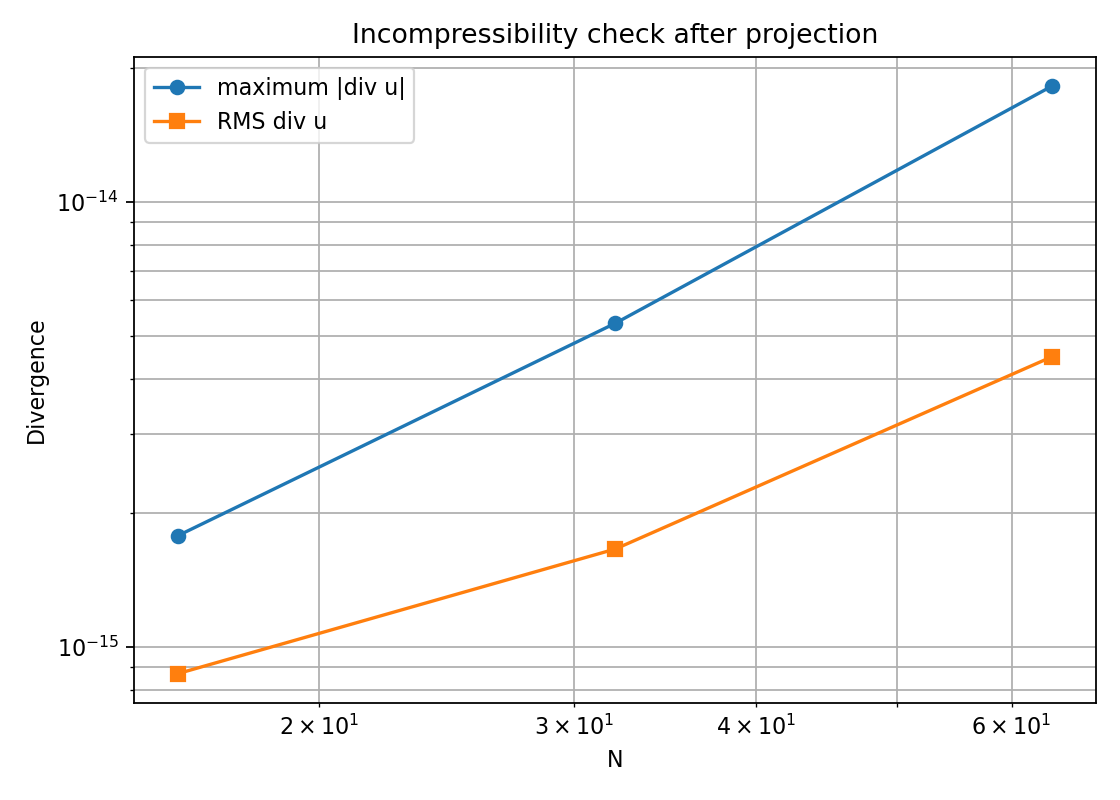
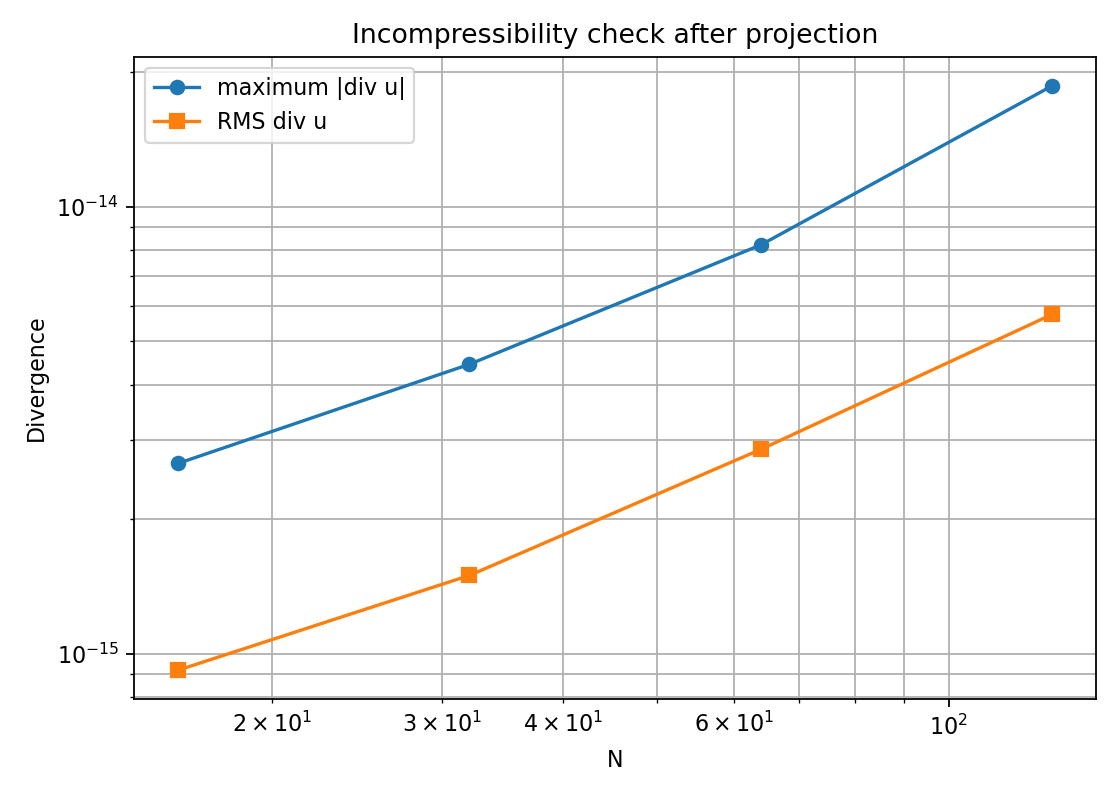
actualitzacio
dt es calcula al cpp, estructura al executar al readme

Changed region(s): [[0.0625, 0.0625, 0.9688, 0.9375], [0.0, 0.4062, 0.0625, 0.5625], [0.0625, 0.7812, 0.125, 0.8438]]

diff --git a/convergence_time_check.py b/convergence_time_check.py
@@ -1,13 +1,14 @@
 #!/usr/bin/env python3
 """Validate the time-dependent Taylor-Green vortex against its exact solution.
 
-Runs the C++ solver for several N values at the same final time, reads u_final.csv
-and v_final.csv, compares them at their staggered locations, and saves field
-comparisons, divergence checks, and a mesh-convergence plot.
+Runs the C++ solver for several N values, reads u_final.csv and v_final.csv,
+compares them at their staggered locations, and saves field comparisons,
+divergence checks, and a mesh-convergence plot.
 
-Expected executable interface for NS_modified.cpp: NS N tFinal nu dt
+Expected executable interface for NS_modified.cpp: NS N tFinal nu
 """
 import argparse
+import re
 import subprocess
 import sys
 from pathlib import Path
@@ -36,26 +37,38 @@ def exact_fields(n, time, nu, rho=RHO_DEFAULT):
     return u, v, p
 
 
-def run_case(exe, n, nsteps, dt, nu, rho, workdir):
+def run_case(exe, n, t_final, nu, rho, workdir):
     case_dir = workdir / f"N{n}"
     case_dir.mkdir(parents=True, exist_ok=True)
 
-    # NS_modified.cpp expects: N, tFinal, nu, dt.
-    # The older script interface (N, nSteps, dt, nu, rho) was incompatible.
-    t_final = nsteps * dt
+    # NS_modified.cpp expects: N, tFinal, nu.
     cmd = [
         str(exe.resolve()),
         str(n),
         f"{t_final:.17g}",
         f"{nu:.17g}",
-        f"{dt:.17g}",
     ]
     result = subprocess.run(cmd, cwd=case_dir, capture_output=True, text=True)
+
     if result.returncode:
         raise RuntimeError(
-            f"Solver failed for N={n}.\\nCommand: {' '.join(cmd)}\\n"
-            f"stdout:\\n{result.stdout}\\nstderr:\\n{result.stderr}"
+            f"Solver failed for N={n}.\nCommand: {' '.join(cmd)}\n"
+            f"stdout:\n{result.stdout}\nstderr:\n{result.stderr}"
         )
+
+    # Extract the actual final simulation time from the C++ output.
+    times = re.findall(
+        r"Completed step\s+\d+,\s*dt\s*=\s*[\deE.+-]+,\s*t\s*=\s*([\deE.+-]+)",
+        result.stdout
+    )
+
+    if not times:
+        raise RuntimeError(
+            f"Could not extract final simulation time for N={n}.\n"
+            f"Solver output:\n{result.stdout}"
+        )
+
+    actual_time = float(times[-1])
 
     fields = {}
     for name in ("u_final.csv", "v_final.csv", "pressure_final.csv"):
@@ -66,7 +79,8 @@ def run_case(exe, n, nsteps, dt, nu, rho, workdir):
         if arr.shape != (n, n):
             raise ValueError(f"{path}: expected {(n, n)}, got {arr.shape}")
         fields[name] = arr
-    return case_dir, fields, result.stdout
+
+    return case_dir, fields, result.stdout, actual_time
 
 
 def divergence(u, v, h):
@@ -80,28 +94,23 @@ def main():
     ap.add_argument("--sizes", type=int, nargs="+", default=[16, 32, 64],
                     help="mesh sizes N (square N x N grids)")
     ap.add_argument("--time", type=float, default=0.01, help="target final time")
-    ap.add_argument("--dt", type=float, default=1.0e-4, help="fixed time step")
     ap.add_argument("--nu", type=float, default=NU_DEFAULT, help="kinematic viscosity")
     ap.add_argument("--rho", type=float, default=RHO_DEFAULT, help="density")
     ap.add_argument("--workdir", default="validation_runs", help="output directory")
     ap.add_argument("--out", default="validation_results", help="plots/output folder")
     args = ap.parse_args()
 
-    if args.time < 0 or args.dt <= 0 or args.nu < 0 or args.rho <= 0:
-        ap.error("Require time>=0, dt>0, nu>=0 and rho>0")
+    if args.time < 0 or args.nu < 0 or args.rho <= 0:
+        ap.error("Require time>=0, nu>=0 and rho>0")
+
     sizes = sorted(set(args.sizes))
     if any(n < 2 for n in sizes):
         ap.error("All N values must be >= 2")
-    nsteps = int(round(args.time / args.dt))
-    if nsteps < 0:
-        ap.error("Invalid number of time steps")
-    actual_time = nsteps * args.dt
-    if not np.isclose(actual_time, args.time, rtol=0.0, atol=1e-10 * max(1.0, args.time)):
-        print(f"Note: target time {args.time:g} adjusted to {actual_time:g} = nSteps*dt")
 
     exe = Path(args.exe).expanduser().resolve()
     if not exe.exists():
         ap.error(f"Executable not found: {exe}. Compile the C++ solver first.")
+
     workdir = Path(args.workdir).expanduser().resolve()
     outdir = Path(args.out).expanduser().resolve()
     outdir.mkdir(parents=True, exist_ok=True)
@@ -109,64 +118,98 @@ def main():
     errors = []
     div_results = []
     results = []
+    actual_times = []
+
     for n in sizes:
-        print(f"Running N={n}, steps={nsteps}, t={actual_time:g} ...", flush=True)
-        case_dir, fields, _ = run_case(exe, n, nsteps, args.dt, args.nu, args.rho, workdir)
+        print(f"Running N={n}, target t={args.time:g} ...", flush=True)
+
+        case_dir, fields, _, actual_time = run_case(
+            exe, n, args.time, args.nu, args.rho, workdir
+        )
+        actual_times.append(actual_time)
+
+        print(f"  Actual final time: {actual_time:.12g}")
+
         un = fields["u_final.csv"]
         vn = fields["v_final.csv"]
         pn = fields["pressure_final.csv"]
+
         ue, ve, pe = exact_fields(n, actual_time, args.nu, args.rho)
+
         eu = float(np.max(np.abs(un - ue)))
         ev = float(np.max(np.abs(vn - ve)))
+
         div = divergence(un, vn, L / n)
         divmax = float(np.max(np.abs(div)))
         divrms = float(np.sqrt(np.mean(div**2)))
+
         # Pressure is only defined up to a constant for periodic flow.
         dpn = pn - pn[0, 0]
         dpe = pe - pe[0, 0]
         ep = float(np.max(np.abs(dpn - dpe)))
+
         errors.append((eu, ev, ep))
         div_results.append((divmax, divrms))
         results.append((n, case_dir, un, vn, ue, ve))
+
         print(f"  max|u-uexact|={eu:.4e}; max|v-vexact|={ev:.4e}; "
-              f"max|p-pref - exact|={ep:.4e}; maxDiv={divmax:.4e}; RMSDiv={divrms:.4e}")
+              f"max|p-pref - exact|={ep:.4e}; maxDiv={divmax:.4e}; "
+              f"RMSDiv={divrms:.4e}")
 
         # For each mesh: exact and numerical velocity fields, plus absolute error.
         fig, axes = plt.subplots(2, 3, figsize=(13, 7), constrained_layout=True)
+
         panels = [
-            (axes[0, 0], ue, "Exact u"), (axes[0, 1], un, "Numerical u"),
+            (axes[0, 0], ue, "Exact u"),
+            (axes[0, 1], un, "Numerical u"),
             (axes[0, 2], np.abs(un - ue), "|u error|"),
-            (axes[1, 0], ve, "Exact v"), (axes[1, 1], vn, "Numerical v"),
+            (axes[1, 0], ve, "Exact v"),
+            (axes[1, 1], vn, "Numerical v"),
             (axes[1, 2], np.abs(vn - ve), "|v error|"),
         ]
+
         for ax, field, title in panels:
-            im = ax.imshow(field, origin="lower", extent=(0, L, 0, L),
-                           aspect="equal", interpolation="nearest")
+            im = ax.imshow(
+                field, origin="lower", extent=(0, L, 0, L),
+                aspect="equal", interpolation="nearest"
+            )
             ax.set_title(title)
             ax.set_xlabel("x")
             ax.set_ylabel("y")
             fig.colorbar(im, ax=ax, shrink=0.82)
-        fig.suptitle(f"Taylor–Green vortex, N={n}, t={actual_time:g}, nu={args.nu:g}")
+
+        fig.suptitle(
+            f"Taylor–Green vortex, N={n}, t={actual_time:g}, nu={args.nu:g}"
+        )
         fig.savefig(outdir / f"fields_N{n}.png", dpi=160)
         plt.close(fig)
 
     err = np.asarray(errors)
     divs = np.asarray(div_results)
-    print("\n N       h          max error u    max error v    max error p*    max div       RMS div")
+
+    print("\n N       h          max error u    max error v    max error p*    "
+          "max div       RMS div")
     for k, n in enumerate(sizes):
-        print(f"{n:3d}  {L/n:9.3e}  {err[k,0]:12.4e}  {err[k,1]:12.4e}  "
-              f"{err[k,2]:12.4e}  {divs[k,0]:12.4e}  {divs[k,1]:12.4e}")
+        print(f"{n:3d}  {L/n:9.3e}  {err[k,0]:12.4e}  "
+              f"{err[k,1]:12.4e}  {err[k,2]:12.4e}  "
+              f"{divs[k,0]:12.4e}  {divs[k,1]:12.4e}")
 
     hvals = np.array([L / n for n in sizes])
+
     fig, ax = plt.subplots(figsize=(7, 5))
-    for col, label, marker in [(0, "u max error", "o"), (1, "v max error", "s")]:
+    for col, label, marker in [
+        (0, "u max error", "o"),
+        (1, "v max error", "s")
+    ]:
         ax.loglog(hvals, err[:, col], marker + "-", label=label)
+
     if len(sizes) > 1:
         ref = err[0, 0] * (hvals / hvals[0])**2
         ax.loglog(hvals, ref, "--", label=r"$O(h^2)$ reference")
+
     ax.set_xlabel("h = L/N")
     ax.set_ylabel("Maximum absolute error")
-    ax.set_title(f"Velocity mesh convergence at t={actual_time:g}")
+    ax.set_title(f"Velocity mesh convergence at t={args.time:g}")
     ax.grid(True, which="both")
     ax.legend()
     fig.tight_layout()
@@ -186,13 +229,21 @@ def main():
     plt.close(fig)
 
     summary = outdir / "validation_summary.csv"
-    np.savetxt(summary, np.column_stack((sizes, hvals, err, divs)), delimiter=",")
+    np.savetxt(
+        summary,
+        np.column_stack((sizes, hvals, err, divs)),
+        delimiter=","
+    )
+
     print(f"\nPlots and summary saved in: {outdir}")
-    print("Files: fields_N*.png, mesh_convergence.png, divergence_check.png, validation_summary.csv")
+    print(
+        "Files: fields_N*.png, mesh_convergence.png, "
+        "divergence_check.png, validation_summary.csv"
+    )
 
 
 if __name__ == "__main__":
     try:
         main()
     except (RuntimeError, FileNotFoundError, ValueError) as exc:
-        sys.exit(str(exc))
+        sys

diff --git a/Solver.cpp b/Solver.cpp
@@ -5,18 +5,20 @@
 #include <cmath>
 #include <stdexcept>
 #include <algorithm>
+#include <chrono>
 
 Solver::Solver(int Nx, int Ny, double Lx, double Ly,
-               double nu, double rho, double dt)
+               double nu, double rho)
     : m_Nx(Nx), m_Ny(Ny), m_Lx(Lx), m_Ly(Ly),
-      m_dx(Lx / Nx), m_dy(Ly / Ny), m_nu(nu), m_rho(rho), m_dt(dt),
+      m_dx(Lx / Nx), m_dy(Ly / Ny), m_nu(nu), m_rho(rho),
+      m_dtd(0.5*((Lx/Nx)*(Lx/Nx))/nu),m_dtc(m_dtd),m_dt(m_dtc),
       m_RuPrevious(static_cast<std::size_t>(Nx) * Ny, 0.0),
       m_RvPrevious(static_cast<std::size_t>(Nx) * Ny, 0.0),
       m_up(static_cast<std::size_t>(Nx) * Ny, 0.0),
       m_vp(static_cast<std::size_t>(Nx) * Ny, 0.0),
       m_pseudoPressure(static_cast<std::size_t>(Nx) * Ny, 0.0)
 {
-    if (Nx < 2 || Ny < 2 || Lx <= 0.0 || Ly <= 0.0 || rho <= 0.0 || dt <= 0.0)
+    if (Nx < 2 || Ny < 2 || Lx <= 0.0 || Ly <= 0.0 || rho <= 0.0)
         throw std::invalid_argument("Invalid Solver dimensions or physical parameters");
 
     const std::size_t n = static_cast<std::size_t>(Nx) * Ny;
@@ -101,6 +103,7 @@ void Solver::step(Umesh& u, Vmesh& v, Pmesh& p)
     const double cellVolume = m_dx * m_dy;
     std::vector<double> Ru(m_RuPrevious.size());
     std::vector<double> Rv(m_RvPrevious.size());
+    double u_max = u.max_val(), v_max = v.max_val();
 
     // LOOP 1: convective/diffusive terms and AB2 predictor.
     // FVM functions are unchanged from the Part A verification.
@@ -111,6 +114,11 @@ void Solver::step(Umesh& u, Vmesh& v, Pmesh& p)
             const double difU  = FVM::computeDiffusiveU(i, j, u, m_nu);
             const double convV = FVM::computeConvectiveV(i, j, u, v);
             const double difV  = FVM::computeDiffusiveV(i, j, u, v, m_nu);
+
+            //dt determination
+
+            u_max > v_max ? m_dtc = (m_Lx/m_Nx)/u_max : m_dtc = (m_Lx/m_Nx)/v_max;
+            m_dtc > m_dtd ? m_dt = 0.1 * m_dtd : m_dt = 0.1 * m_dtc;
 
             // Momentum equation: du/dt = -C/V + D/V - (1/rho) grad(p).
             Ru[k] = (-convU + difU) / cellVolume;
@@ -141,6 +149,10 @@ void Solver::step(Umesh& u, Vmesh& v, Pmesh& p)
             u(i, j) = m_up[k] - (m_pseudoPressure[index(ip, j)] - m_pseudoPressure[k]) / m_dx;
             v(i, j) = m_vp[k] - (m_pseudoPressure[index(i, jp)] - m_pseudoPressure[k]) / m_dy;
             p(i, j) = (m_rho / m_dt) * m_pseudoPressure[k];
+
+            //update u_max v_max
+            u(i,j) > u_max ? u_max = u(i,j) : u_max = u_max;
+            v(i,j) > v_max ? v_max = v(i,j) : v_max = v_max;
         }
     }
 

diff --git a/NS.cpp b/NS.cpp
@@ -21,17 +21,10 @@ int main (int argc, char** argv)
 	// Simulation parameters: N, final time, viscosity, time step
 	const double tFinal = (argc > 2) ? std::atof(argv[2]) : 0.01;
 	const double nu = (argc > 3) ? std::atof(argv[3]) : 1.51e-5;
-	const double dt = (argc > 4) ? std::atof(argv[4]) : 1.0e-4;
 	const double rho = 1.0;
 
-	if (Nx < 1 || tFinal <= 0.0 || nu < 0.0 || dt <= 0.0) {
+	if (Nx < 1 || tFinal <= 0.0 || nu < 0.0) {
 		std::cerr << "Error: N and dt/tFinal must be positive, and nu must be non-negative.\n";
-		return 1;
-	}
-
-	const int nSteps = static_cast<int>(std::round(tFinal / dt));
-	if (nSteps < 1 || std::abs(nSteps * dt - tFinal) > 1e-12) {
-		std::cerr << "Error: tFinal must be a positive integer multiple of dt.\n";
 		return 1;
 	}
 
@@ -106,13 +99,15 @@ int main (int argc, char** argv)
 	/*******************************************************
 		PART B/C: PRESSURE-VELOCITY COUPLING AND TIME LOOP
 	*******************************************************/
-	Solver solver(Nx, Ny, Lx, Ly, nu, rho, dt);
-	for (int n = 0; n < nSteps; ++n) {
+	Solver solver(Nx, Ny, Lx, Ly, nu, rho);
+	double dt = solver.getdt();
+	for (double time = 0; time < tFinal; time += dt) {
 		solver.step(u, v, p);
-		if ((n + 1) % 10 == 0) {
-			std::cout << "Completed step " << solver.getStep()
+		std::cout << "Completed step " << solver.getStep()
+					  << ", dt = " << dt
 			          << ", t = " << solver.getTime() << "\n";
-		}
+
+		dt = solver.getdt();
 	}
 
 	// Final fields for inspection / verification.

diff --git a/Solver.h b/Solver.h
@@ -9,7 +9,7 @@
 class Solver {
 public:
     Solver(int Nx, int Ny, double Lx, double Ly,
-           double nu, double rho, double dt);
+           double nu, double rho);
     ~Solver();
 
     Solver(const Solver&) = delete;
@@ -20,11 +20,12 @@ public:
 
     int getStep() const { return m_step; }
     double getTime() const { return m_step * m_dt; }
+    double getdt() const { return m_dt; }
 
 private:
     int m_Nx, m_Ny;
     double m_Lx, m_Ly, m_dx, m_dy;
-    double m_nu, m_rho, m_dt;
+    double m_nu, m_rho, m_dtd, m_dtc, m_dt;
     int m_step = 0;
 
     // Previous R^n fields, flattened as j*Nx+i. R^{-1}=0 initially.

diff --git a/Mesh.cpp b/Mesh.cpp
@@ -24,6 +24,17 @@ void Mesh::initialize (std::function<double(double,double)> init_cond)
 double Mesh::findxCenternode(int i) const { return m_Lex / 2.0 + m_Lex * i; }
 double Mesh::findyCenternode(int j) const { return m_Ley / 2.0 + m_Ley * j; }
 
+double Mesh::max_val(){
+    double maxval = 0;
+    for (int i = 0; i < m_Nx*m_Ny; i++){
+
+        m_field[i] > maxval ? maxval = m_field[i] : maxval = maxval;
+
+    }
+
+    return maxval;
+}
+
 void Mesh::print_field() const {
     for (int jj = m_Ny - 1; jj >= 0; --jj) {
         for (int ii = 0; ii < m_Nx; ++ii) {

diff --git a/Mesh.h b/Mesh.h
@@ -50,6 +50,8 @@ public:
     virtual double findy(int j) const = 0;
     virtual void coord(int i, int j, double* x, double* y) const = 0;
 
+    double max_val();
+
     void print_field() const;
 };
 
